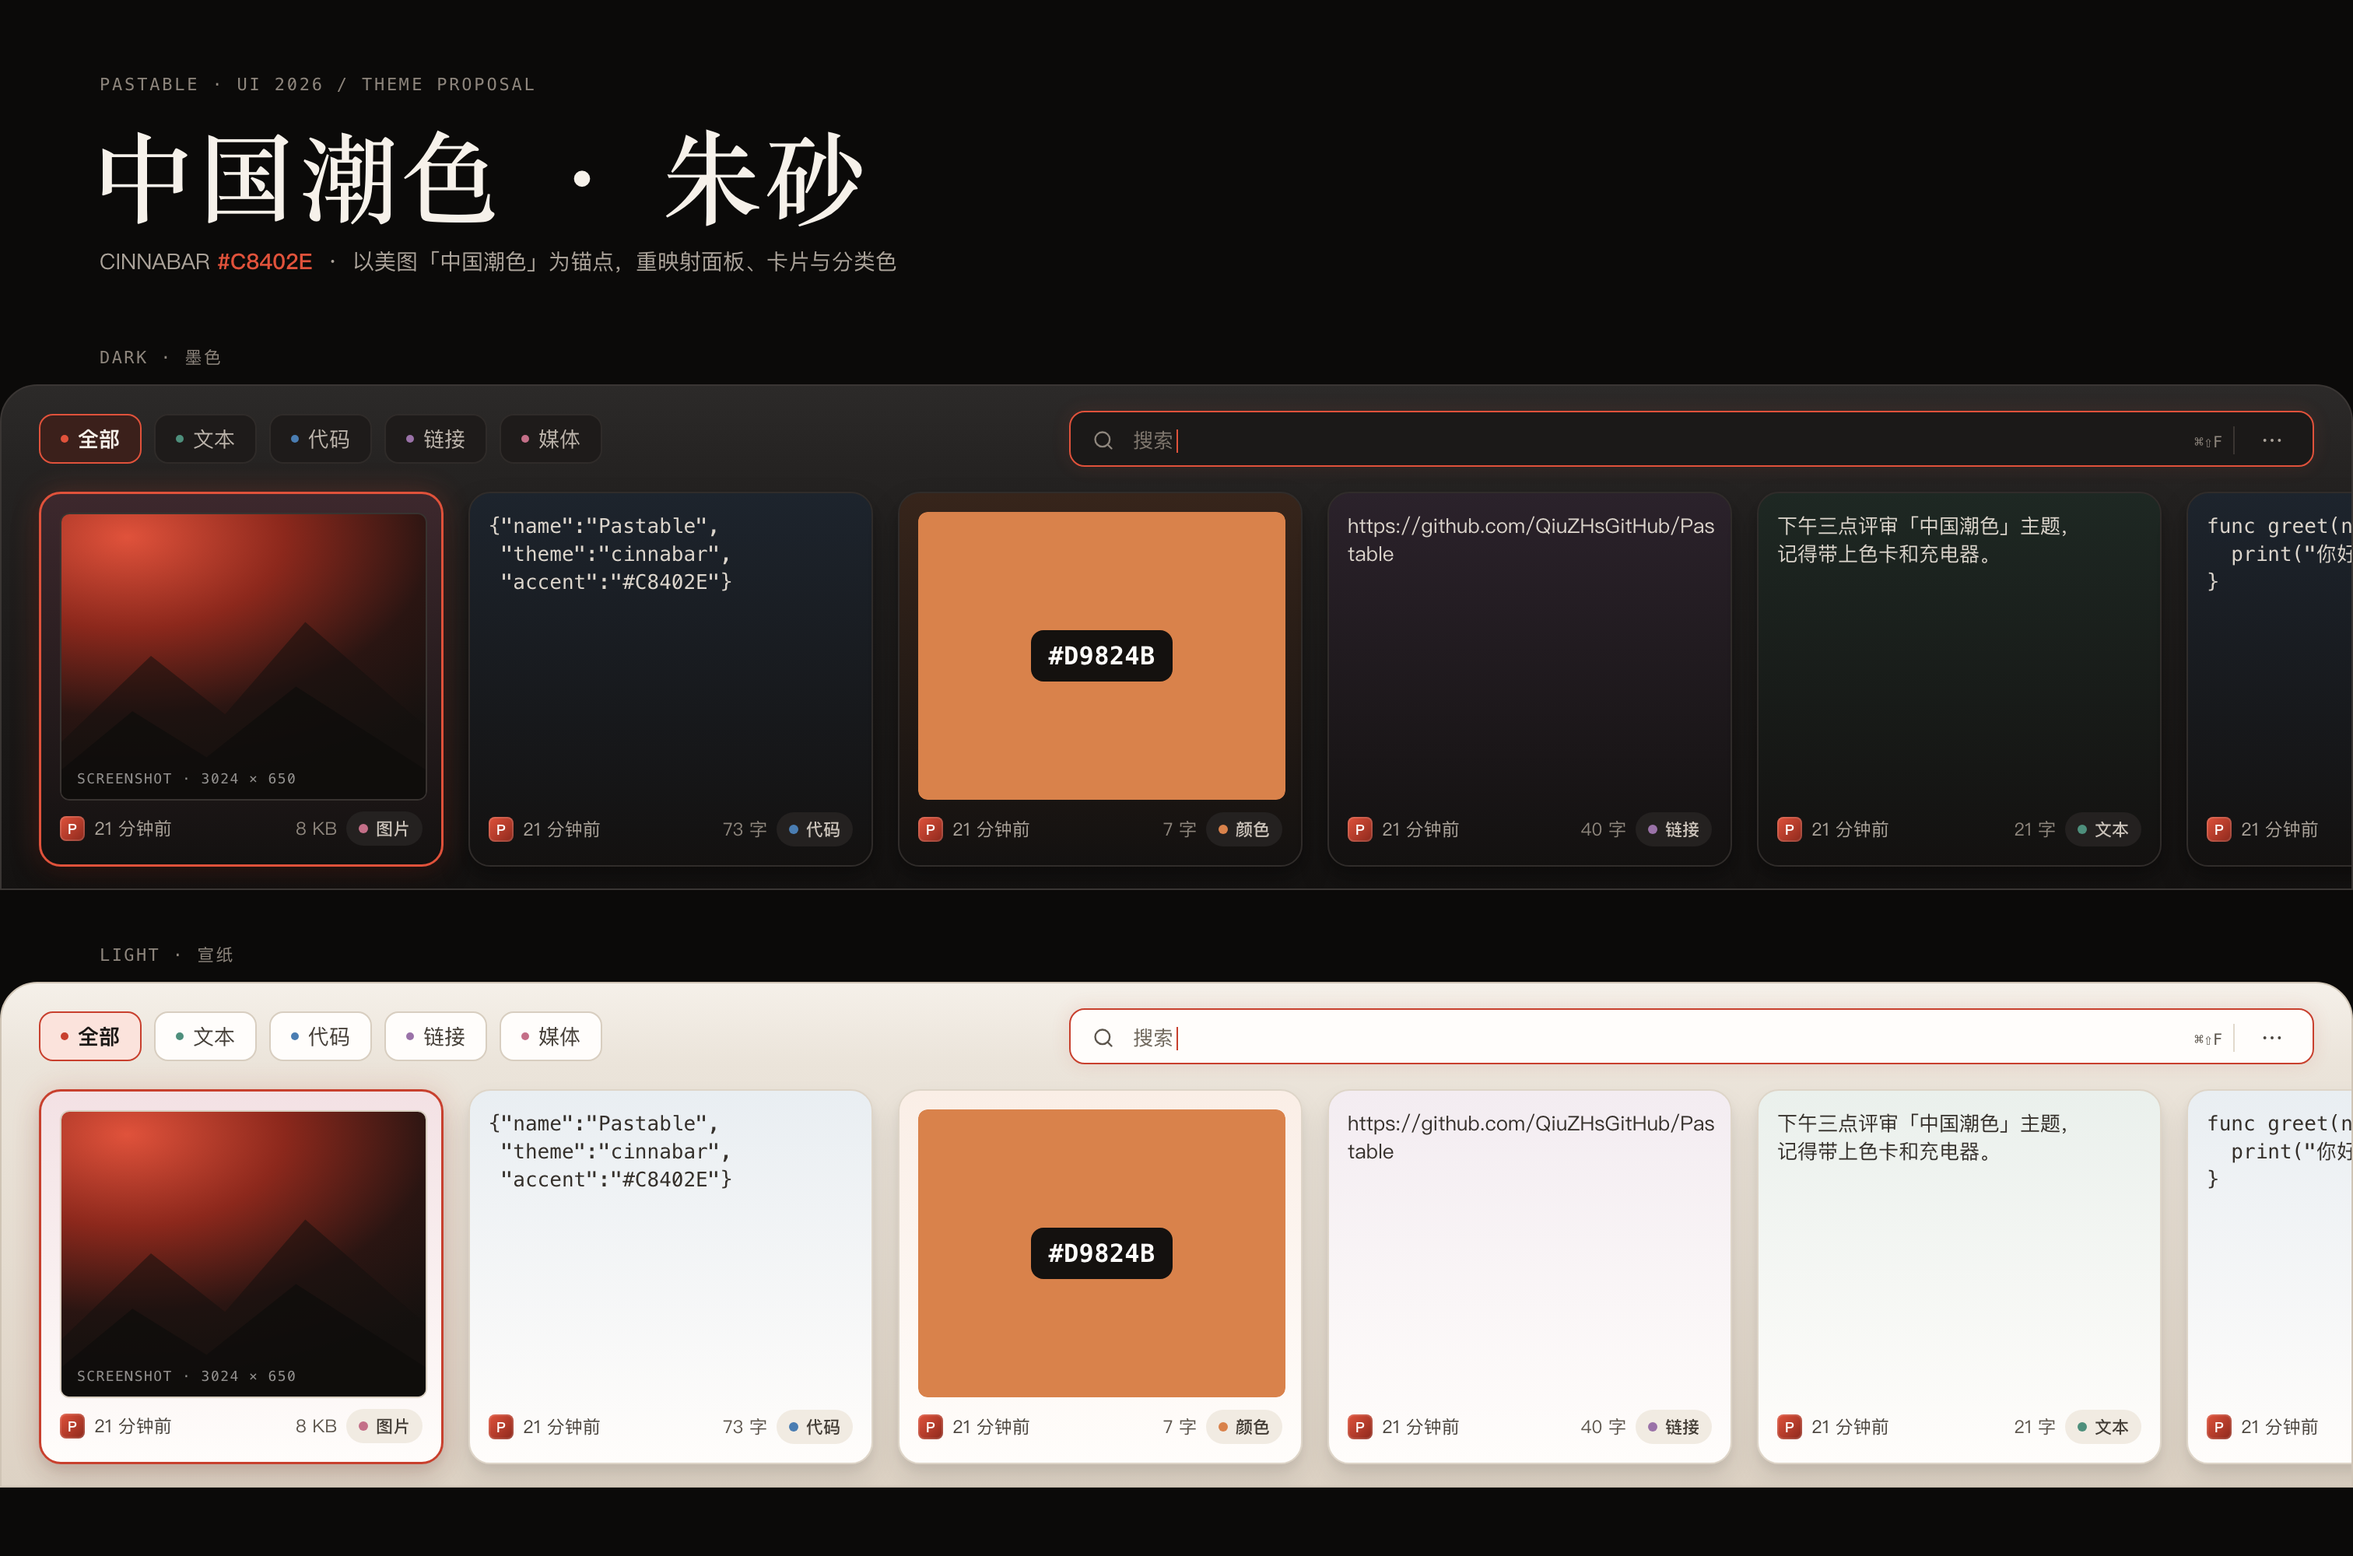
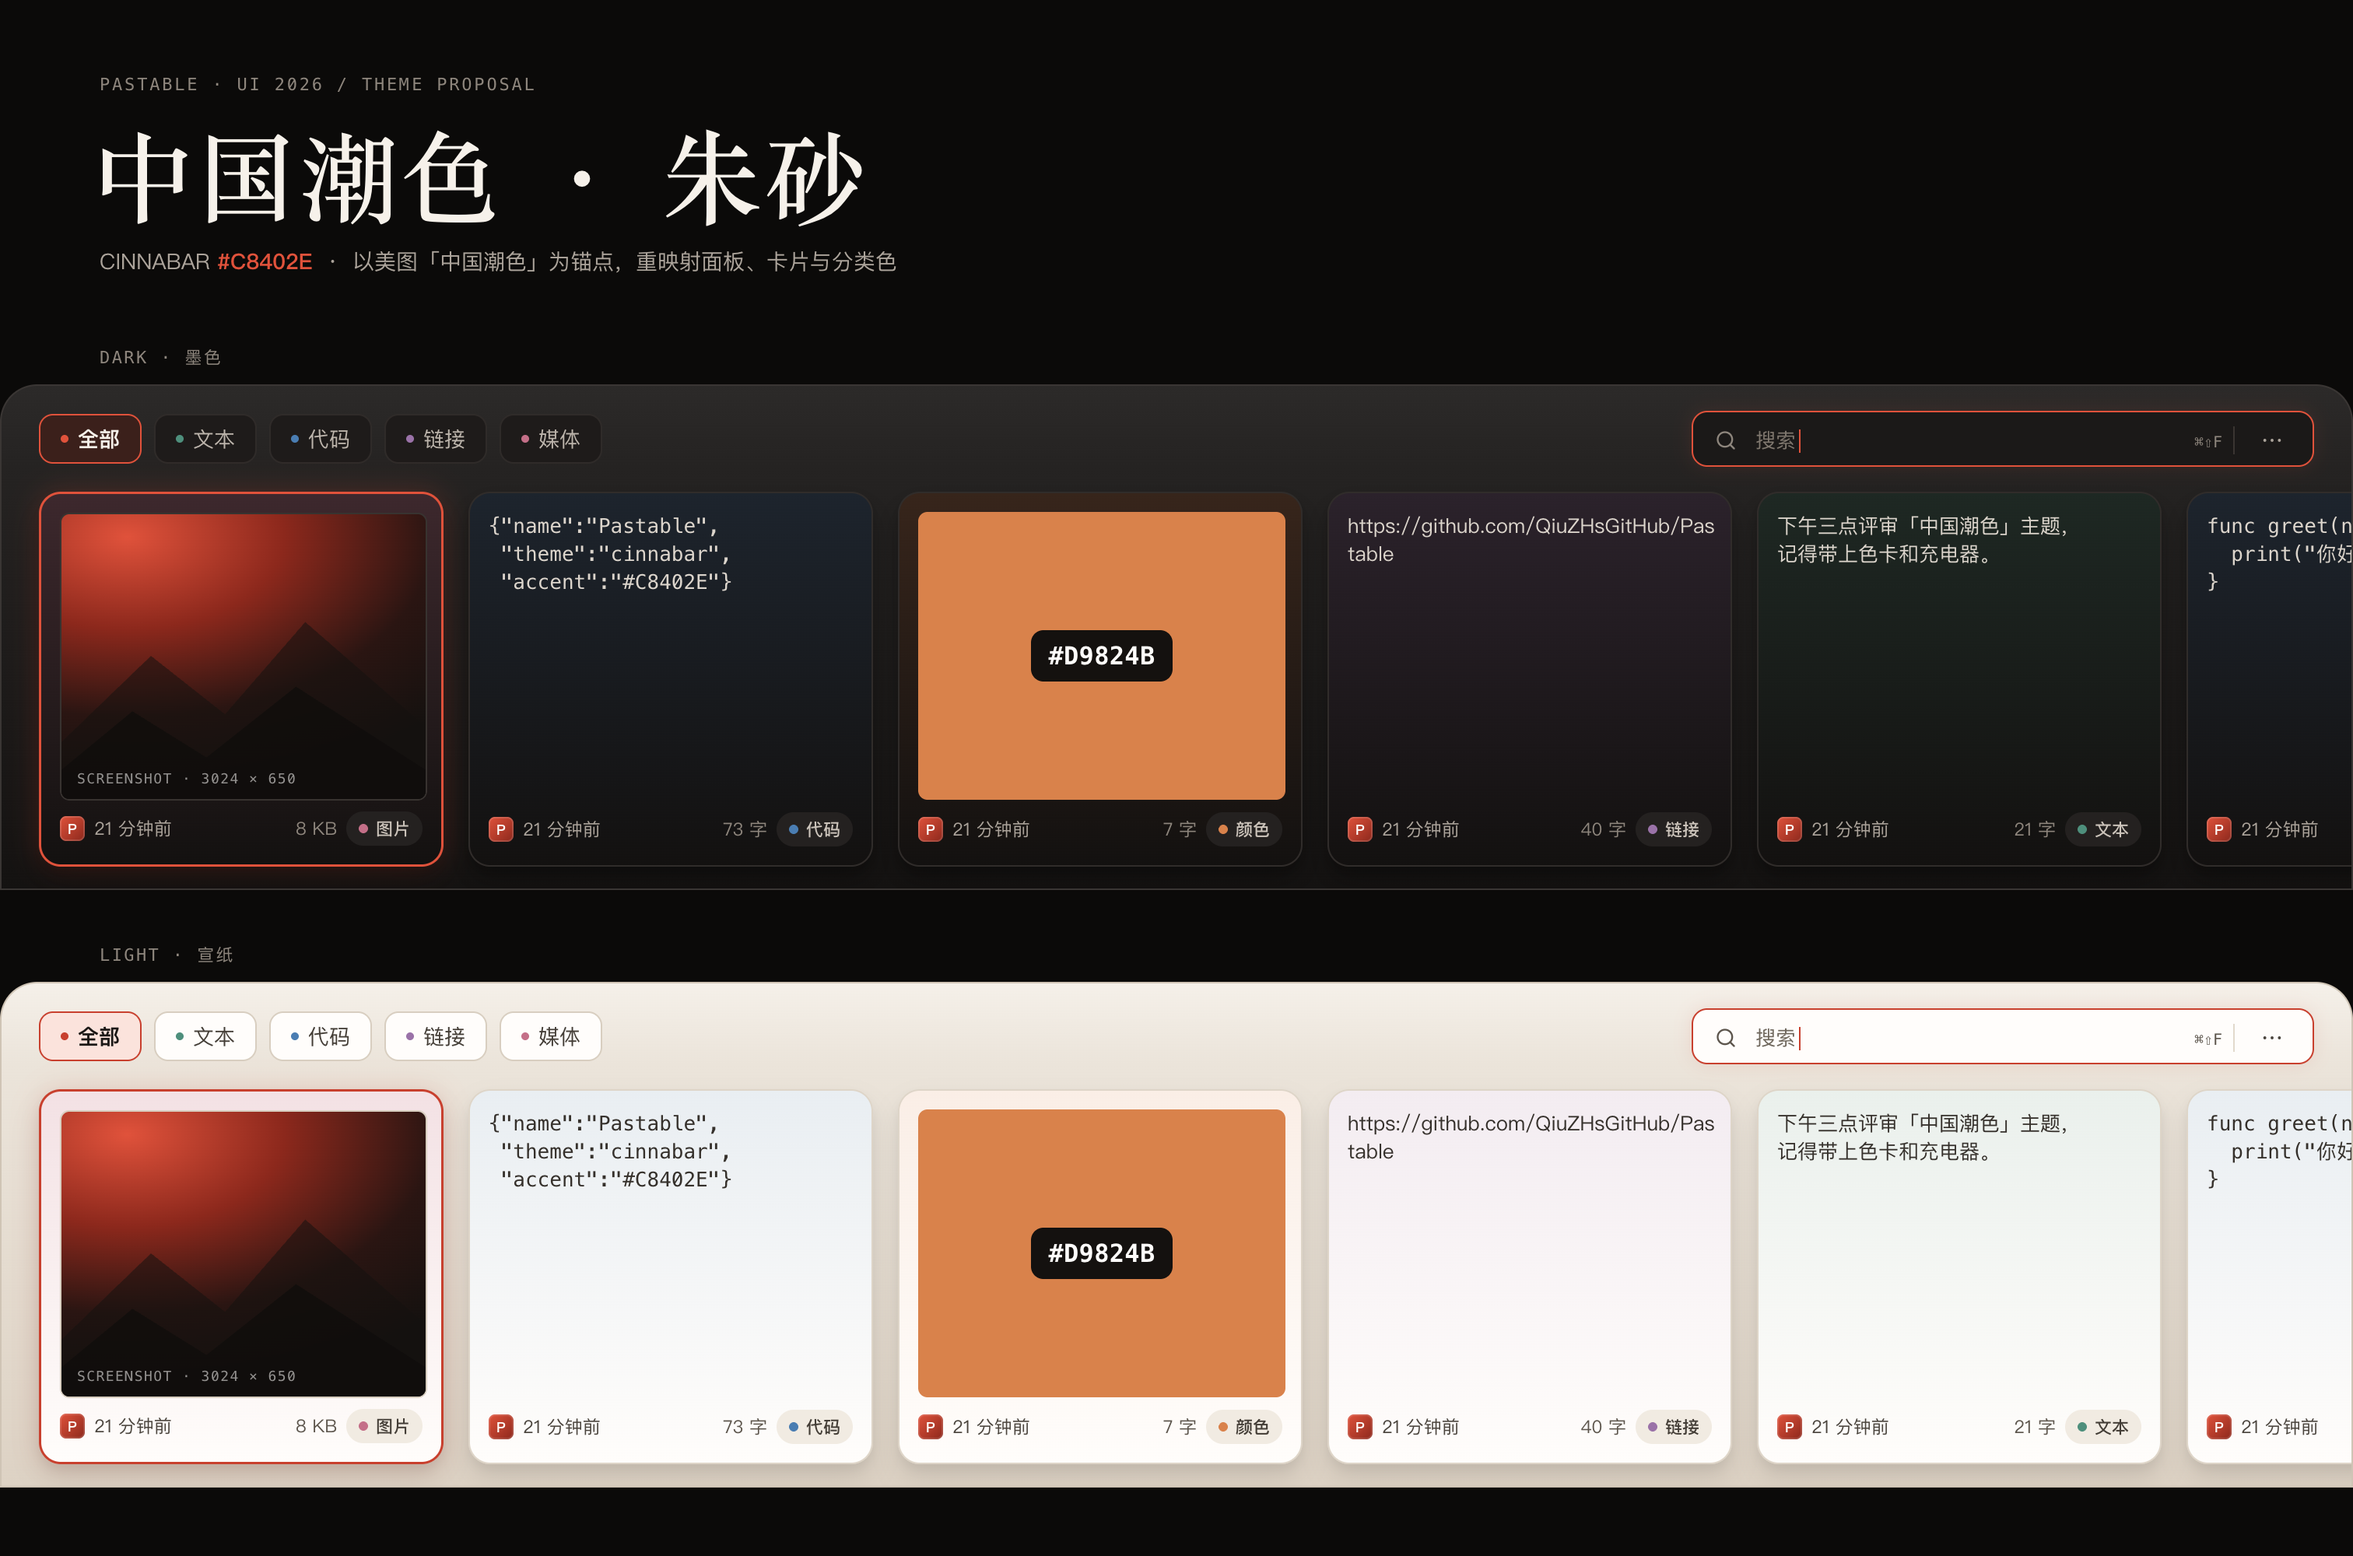
chore(figma): regenerate the theme frames with a 400pt search field
- Add SEARCH_W = 400 to the plugin template, re-anchor the shortcut,
  divider and ellipsis glyph; regenerate figma-plugin/code.js.
- Shrink the preview search box to 400px and re-render index.html,
  panel-dark/light and compare.png.
- Note that the Figma cloud page still needs one plugin run and that
  figma-panel-*.png are the previous (800pt) exports.

Changed region(s): [[0.4352, 0.651, 0.7771, 0.682], [0.4663, 0.279, 0.4974, 0.31]]

diff --git a/design/theme-cinnabar/src/plugin.template.js b/design/theme-cinnabar/src/plugin.template.js
@@ -7,6 +7,9 @@ const TOKENS = /*__TOKENS__*/;
 const PAGE_NAME = 'Pastable / UI 2026 · 中国潮色';
 const W = 1512;
 const H = 325;
+// Search field width. Matches `HeaderView.searchBarWidth` in the app: a compact
+// search box instead of a bar stretching across the whole panel.
+const SEARCH_W = 400;
 
 const CAT = TOKENS.global.color.category;
 const ACCENT_SCALE = TOKENS.global.color.accent;
@@ -466,7 +469,7 @@ function addPanel(mode, x, y) {
   tabRow.primaryAxisSizingMode = 'AUTO';
   tabRow.counterAxisSizingMode = 'AUTO';
 
-  const search = makeFrame(header, 'Search', W - 48 - 800, 0, 800, 36, {
+  const search = makeFrame(header, 'Search', W - 48 - SEARCH_W, 0, SEARCH_W, 36, {
     fill: solid(hexOf(t.control.search.background)),
     radius: 10,
     stroke: hexOf(t.accent.base)
@@ -480,7 +483,7 @@ function addPanel(mode, x, y) {
     lineHeight: 16
   });
   makeRect(search, 'Caret', 68, 11, 1, 15, solid(hexOf(t.accent.base)));
-  addText(search, '⌘⇧F', 682, 12, {
+  addText(search, '⌘⇧F', SEARCH_W - 118, 12, {
     font: FONT.mono,
     size: 10,
     color: hexOf(t.text.tertiary),
@@ -488,8 +491,8 @@ function addPanel(mode, x, y) {
     align: 'RIGHT',
     lineHeight: 12
   });
-  makeRect(search, 'Divider', 749, 9, 1, 18, solid(hexOf(t.control.search.divider)));
-  addText(search, '⋯', 758, 8, {
+  makeRect(search, 'Divider', SEARCH_W - 51, 9, 1, 18, solid(hexOf(t.control.search.divider)));
+  addText(search, '⋯', SEARCH_W - 42, 8, {
     size: 14,
     color: hexOf(t.text.secondary),
     width: 32,

diff --git a/design/theme-cinnabar/figma-plugin/code.js b/design/theme-cinnabar/figma-plugin/code.js
@@ -515,6 +515,9 @@ const TOKENS = {
 const PAGE_NAME = 'Pastable / UI 2026 · 中国潮色';
 const W = 1512;
 const H = 325;
+// Search field width. Matches `HeaderView.searchBarWidth` in the app: a compact
+// search box instead of a bar stretching across the whole panel.
+const SEARCH_W = 400;
 
 const CAT = TOKENS.global.color.category;
 const ACCENT_SCALE = TOKENS.global.color.accent;
@@ -974,7 +977,7 @@ function addPanel(mode, x, y) {
   tabRow.primaryAxisSizingMode = 'AUTO';
   tabRow.counterAxisSizingMode = 'AUTO';
 
-  const search = makeFrame(header, 'Search', W - 48 - 800, 0, 800, 36, {
+  const search = makeFrame(header, 'Search', W - 48 - SEARCH_W, 0, SEARCH_W, 36, {
     fill: solid(hexOf(t.control.search.background)),
     radius: 10,
     stroke: hexOf(t.accent.base)
@@ -988,7 +991,7 @@ function addPanel(mode, x, y) {
     lineHeight: 16
   });
   makeRect(search, 'Caret', 68, 11, 1, 15, solid(hexOf(t.accent.base)));
-  addText(search, '⌘⇧F', 682, 12, {
+  addText(search, '⌘⇧F', SEARCH_W - 118, 12, {
     font: FONT.mono,
     size: 10,
     color: hexOf(t.text.tertiary),
@@ -996,8 +999,8 @@ function addPanel(mode, x, y) {
     align: 'RIGHT',
     lineHeight: 12
   });
-  makeRect(search, 'Divider', 749, 9, 1, 18, solid(hexOf(t.control.search.divider)));
-  addText(search, '⋯', 758, 8, {
+  makeRect(search, 'Divider', SEARCH_W - 51, 9, 1, 18, solid(hexOf(t.control.search.divider)));
+  addText(search, '⋯', SEARCH_W - 42, 8, {
     size: 14,
     color: hexOf(t.text.secondary),
     width: 32,

diff --git a/design/theme-cinnabar/preview/index.html b/design/theme-cinnabar/preview/index.html
@@ -65,7 +65,7 @@
     position: absolute;
     right: 0;
     top: 0;
-    width: 800px;
+    width: 400px; /* keep in sync with HeaderView.searchBarWidth */
     height: 36px;
     border: 1px solid;
     border-radius: 10px;

diff --git a/design/theme-cinnabar/src/preview.template.html b/design/theme-cinnabar/src/preview.template.html
@@ -65,7 +65,7 @@
     position: absolute;
     right: 0;
     top: 0;
-    width: 800px;
+    width: 400px; /* keep in sync with HeaderView.searchBarWidth */
     height: 36px;
     border: 1px solid;
     border-radius: 10px;

diff --git a/docs/figma.md b/docs/figma.md
@@ -89,7 +89,8 @@ Light 页面包含 `L00 · Cover`、`L01 · Panel`、`L02 · Empty`、`L03 · Ca
 
 - **来源图标 / 图片内容**：Figma 用 `w` 小图标与示意截图；App 显示真实 App 图标和真实剪贴板图片。
 - **设置窗口**：Figma 是 500×380 的视觉规格；App 使用原生 macOS 标题栏与 TabView。
-- 除此之外，面板尺寸、卡片尺寸、分类 Tab、搜索框、页脚、选中态、空状态与 Token 均按同一套数值实现。
+- **搜索框宽度**：App 固定 400pt（`HeaderView.searchBarWidth`），Figma 插件（`SEARCH_W`）已同步为 400pt。仓库里的 `figma-panel-*.png` 是收窄前的导出（800pt），在 Figma 里重跑插件并重新导出后即与 App 一致。
+- 除此之外，面板尺寸、卡片尺寸、分类 Tab、页脚、选中态、空状态与 Token 均按同一套数值实现。
 
 ## 说明
 

diff --git a/design/theme-cinnabar/README.md b/design/theme-cinnabar/README.md
@@ -19,6 +19,11 @@
 
 ![Figma Cover](preview/figma-cover.png)
 
+> 2026-10：搜索框由 800pt 收窄到 400pt（插件里的 `SEARCH_W`，与 App 的
+> `HeaderView.searchBarWidth` 一致）。仓库内的 `preview/panel-*.png`、`compare.png`
+> 已重新生成；Figma 云文件需要重跑一次本地插件才会更新，`preview/figma-panel-*.png`
+> 也仍是收窄前的导出。
+
 ## 交付物
 
 | 文件 | 用途 |
